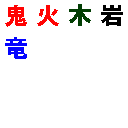
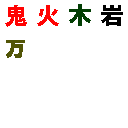
ショップに移動

Changed region(s): [[0.0312, 0.2812, 0.2188, 0.4688]]

diff --git a/Solution/AceLiveMonitor/ViewerEvent.cpp b/Solution/AceLiveMonitor/ViewerEvent.cpp
@@ -27,9 +27,14 @@ ViewerEvent::ViewerEvent(  ) {
 		sprintf_s( buf, "Event/tree/back_%003d.png", i );
 		_images.push_back( drawer->createImage( buf ) );
 	}
-	//TREE
+	//ROCK
 	for ( int i = 0; i < EVENT_PAGE_NUM; i++ ) {
 		sprintf_s( buf, "Event/rock/back_%003d.png", i );
+		_images.push_back( drawer->createImage( buf ) );
+	}
+	//SHOP
+	for ( int i = 0; i < EVENT_PAGE_NUM; i++ ) {
+		sprintf_s( buf, "Event/shop/back_%003d.png", i );
 		_images.push_back( drawer->createImage( buf ) );
 	}
 }
@@ -57,14 +62,21 @@ void ViewerEvent::draw( ) const {
 				} else {
 					idx = type + i;
 				}
-				case TYPE_TREE:
+			case TYPE_TREE:
 				if ( i / EVENT_PAGE_NUM > 0 ) {
 					idx = type + 3; 
 				} else {
 					idx = type + i;
 				}
 				break;
-				case TYPE_ROCK:
+			case TYPE_ROCK:
+				if ( i / EVENT_PAGE_NUM > 0 ) {
+					idx = type + 3; 
+				} else {
+					idx = type + i;
+				}
+				break;
+			case TYPE_SHOP:
 				if ( i / EVENT_PAGE_NUM > 0 ) {
 					idx = type + 3; 
 				} else {

diff --git a/Solution/AceLiveMonitor/MapEvent.cpp b/Solution/AceLiveMonitor/MapEvent.cpp
@@ -9,7 +9,7 @@ const std::string FILENAME[ MAX_EVENT ] {
 	"Resource/Ace/Event/fire/mapdata",  //fire
 	"Resource/Ace/Event/tree/mapdata",	//tree
 	"Resource/Ace/Event/rock/mapdata",	//rock
-	"",
+	"Resource/Ace/Event/shop/mapdata",  //shop
 	""
 };
 
@@ -97,6 +97,12 @@ unsigned char MapEvent::getObject( int mx, int my ) const {
 			mx -= PAGE_OBJECT_WIDTH_NUM;
 		}
 		type = 3;
+		break;
+	case ViewerEvent::TYPE_SHOP:
+		while (mx >= EVENT_PAGE_NUM * PAGE_OBJECT_WIDTH_NUM) {
+			mx -= PAGE_OBJECT_WIDTH_NUM;
+		}
+		type = 4;
 		break;
 	}
 	assert( mx >= 0 && mx < EVENT_PAGE_NUM * PAGE_OBJECT_WIDTH_NUM && my < OBJECT_CHIP_HEIGHT_NUM );

diff --git a/Solution/AceCommon/ace_define.h b/Solution/AceCommon/ace_define.h
@@ -113,6 +113,5 @@ const unsigned char OBJECT_EVENT_REDDEAMON = 0xC0;
 const unsigned char OBJECT_EVENT_FIRE = 0xC1;
 const unsigned char OBJECT_EVENT_TREE = 0xC2;
 const unsigned char OBJECT_EVENT_ROCK = 0xC3;
-const unsigned char OBJECT_EVENT_RYUGU = 0xC4;
-const unsigned char OBJECT_EVENT_SHOP = 0xC5;
+const unsigned char OBJECT_EVENT_SHOP = 0xC4;
 

diff --git a/Solution/AceLiveMonitor/Player.cpp b/Solution/AceLiveMonitor/Player.cpp
@@ -485,6 +485,9 @@ void Player::updateState( ) {
 		case OBJECT_EVENT_ROCK:
 			map_event->setType( ViewerEvent::TYPE_ROCK );
 			break;
+		case OBJECT_EVENT_SHOP:
+			map_event->setType( ViewerEvent::TYPE_SHOP );
+			break;
 		default:
 			event_obj = false;
 			break;

diff --git a/Solution/AceLiveMonitor/Military.cpp b/Solution/AceLiveMonitor/Military.cpp
@@ -170,6 +170,9 @@ void Military::createBoss( ) {
 	case ViewerEvent::TYPE_ROCK:
 		_boss = EnemyPtr( new EnemyBossRock( Vector( 800, 225 ) ) );
 		break;
+	case ViewerEvent::TYPE_SHOP:
+		_boss = EnemyPtr( new EnemyBossRock( Vector( 800, 225 ) ) );
+		break;
 	}
 }
 

diff --git a/Solution/AceEditor/ObjectMenu.cpp b/Solution/AceEditor/ObjectMenu.cpp
@@ -303,9 +303,6 @@ unsigned char ObjectMenu::getEvent( int idx ) const {
 		result = OBJECT_EVENT_ROCK;
 		break;
 	case 4:
-		result = OBJECT_EVENT_RYUGU;
-		break;
-	case 5:
 		result = OBJECT_EVENT_SHOP;
 		break;
 	default:
